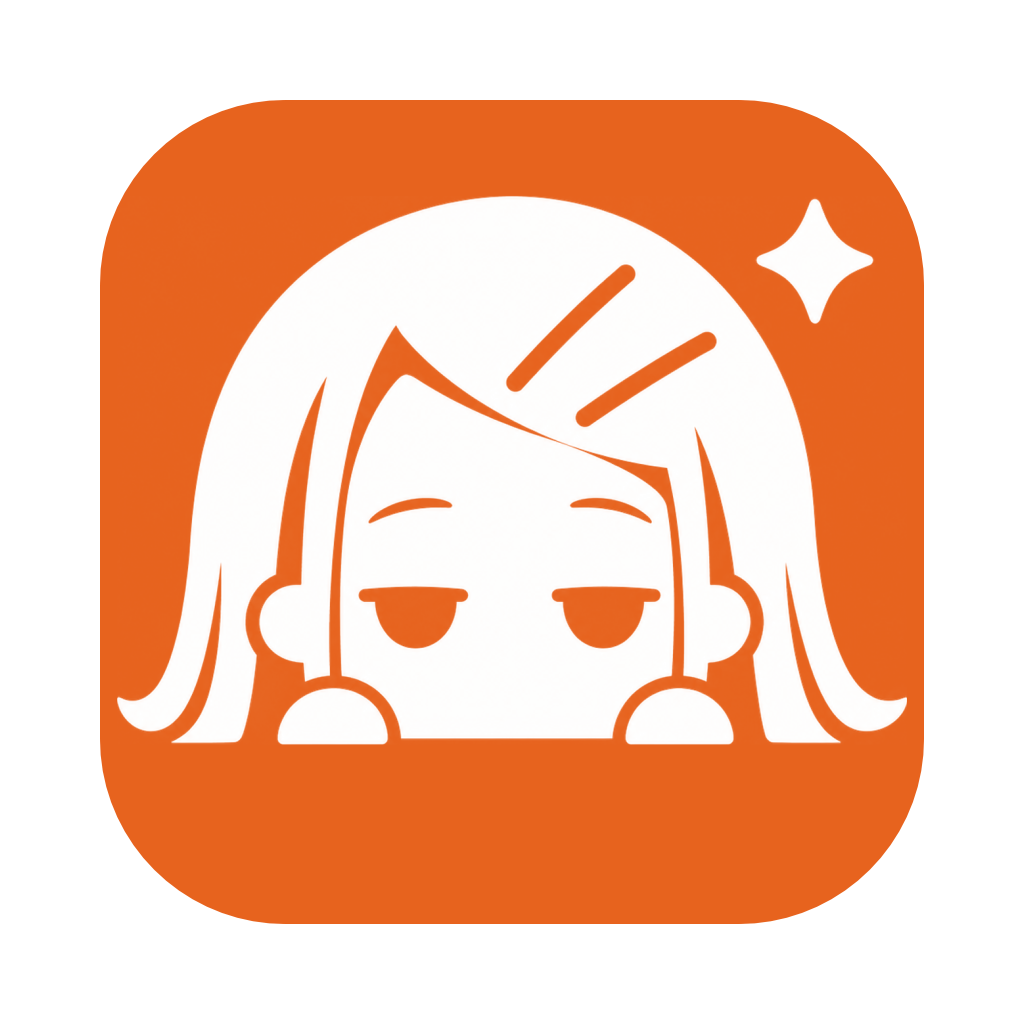
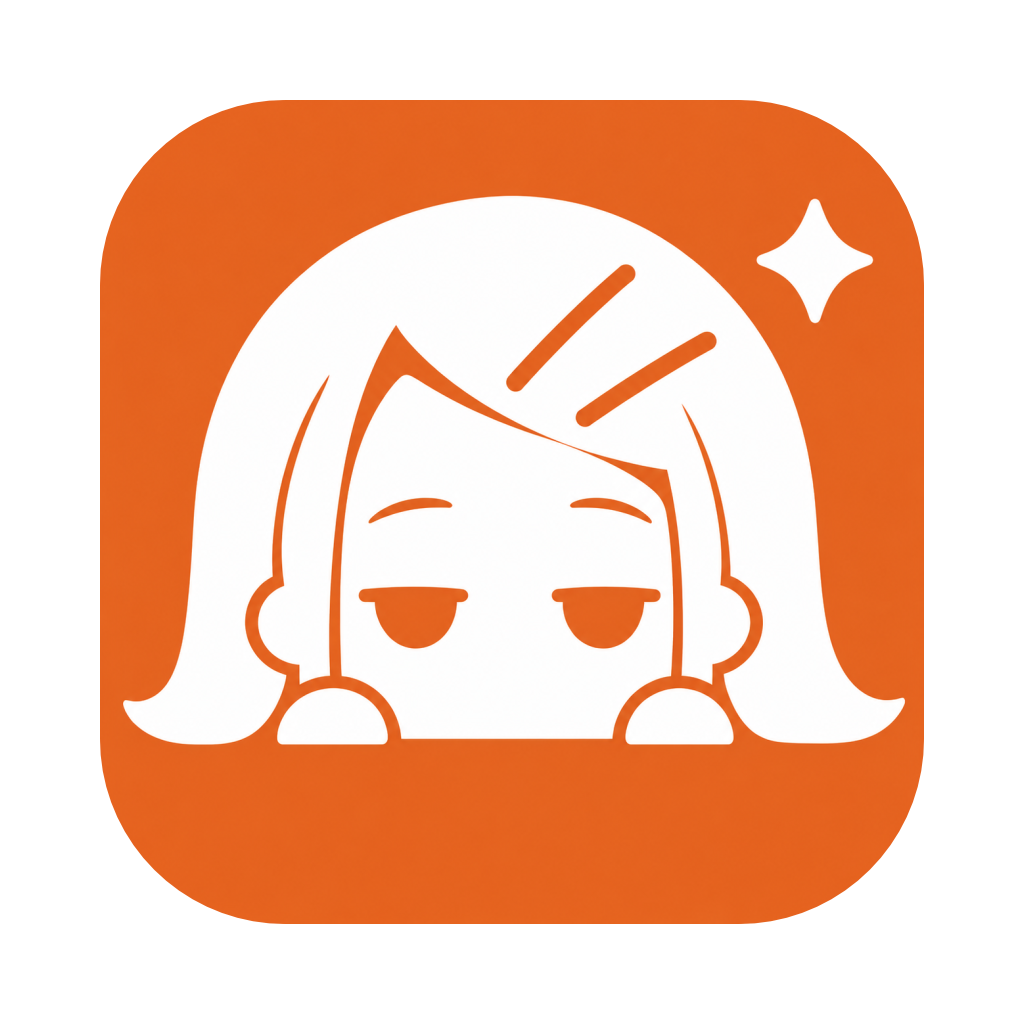
app: 图标两侧头发简化

diff --git a/app/icon/README.md b/app/icon/README.md
@@ -1,6 +1,6 @@
 # 应用图标
 
-`hiro-mark.png` 是源图（用户 11-25 选的 3 号，人物按原底边放大到 120%）：橙底（#EE6A1F）白色单色剪影，Q 版篠澤広从下边探头、发夹和半睁眼是镂空、
+`hiro-mark.png` 是源图（用户 11-25 选的 3 号，人物按原底边放大到 120%，再让 GPT 只把两侧头发简化成一整块）：橙底（#EE6A1F）白色单色剪影，Q 版篠澤広从下边探头、发夹和半睁眼是镂空、
 旁边一颗四角星（初星）。照 DeepSeek Harness 的鲸鱼标志那种扁平单色画法，用 codex 生图画的（参考图是 gakumas-sprites 里的 Q 版常服广），
 1254×1254，满版方图。
 
